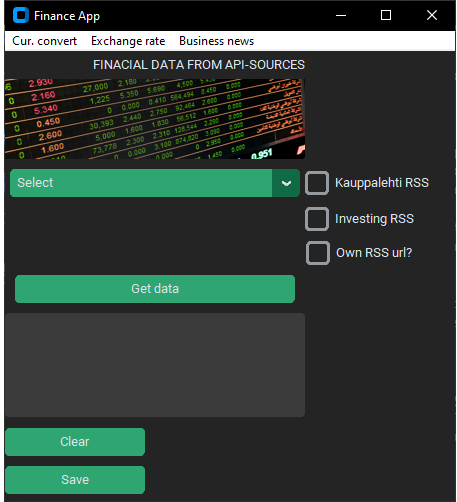
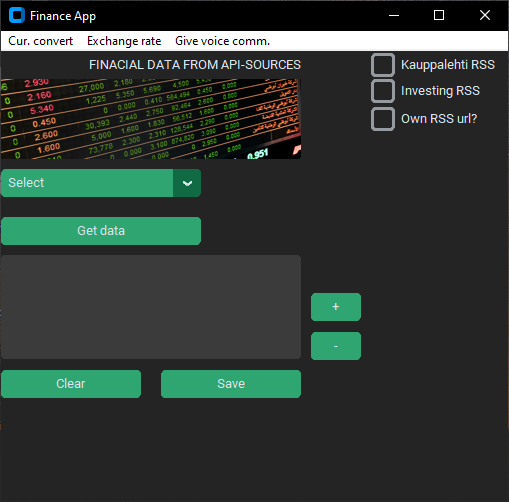
text zoom in / zoom out methods added

diff --git a/finance.py b/finance.py
@@ -17,6 +17,8 @@ from newsapi import NewsAPI
 from PIL import Image
 from databaseConnection import DatabaseConnection
 import speech_recognition as sr
+
+
 #Api-avain on talletettu env-muuttujaan, tässä haetaan sen sisältämä merkkijono
 apk=os.environ.get('apk')
 #Asettaa sovelluksen ulkoasutilan System määrittää ulkoasun saman kuin järjestelmän. dark on tumma teema
@@ -31,6 +33,7 @@ class App(ctk.CTk,tk.Menu):
 
     def __init__(self, *args, **kwargs):
         super().__init__(*args, **kwargs)
+        self.font = ctk.CTkFont(family="Times", size=14)
         self.words=['Crypto','Stocks','Precious metals']
         self.title("Finance App")
         self.menubar=tk.Menu(self)
@@ -64,39 +67,45 @@ class App(ctk.CTk,tk.Menu):
         
         #pudotusvalikko
         self.optMenu = ctk.CTkOptionMenu(self,
-                                        values=['Select',"Crypto","Stocks",'Commodities','Precious metals','Business news'],command=self.optionmenu_callback)
-        self.optMenu.grid(row=3, column=1,padx=5, pady=10,columnspan=1, sticky="ew")
+                                        values=['Select',"Crypto","Stocks",'Commodities','Precious metals','Business news'],command=self.optionmenu_callback,width=200)
+        self.optMenu.grid(row=3, column=1, pady=10,columnspan=1, sticky="w")
 
         self.codeEntry = ctk.CTkEntry(self,placeholder_text="crypto/stock code",textvariable=self.inputField,validate="focusout", validatecommand=self.showInput)
         self.earningsSV=ctk.StringVar()
         self.earnings=ctk.CTkCheckBox(self,text="Show earnings?", onvalue="on", offvalue="off", variable=self.earningsSV)
         self.newsAboutComp=ctk.CTkCheckBox(self,text="News?",command=lambda:self.news.companyNews(self.codeEntry.get(),self.textbox))
-        self.getBtn=ctk.CTkButton(self,text="Get data",command=self.selectMethods,width=5)
-        self.getBtn.grid(row=7,column=1,columnspan=3,sticky="ew",padx=10,pady=10)
-        self.textbox=ctk.CTkTextbox(self,width=200,corner_radius=5,height=105)
+        self.getBtn=ctk.CTkButton(self,text="Get data",command=self.selectMethods,width=200)
+        self.getBtn.grid(row=7,column=1,columnspan=3,sticky="w",pady=10)
+        self.textbox=ctk.CTkTextbox(self,width=200,corner_radius=5,height=105,font=self.font)
         self.textbox.grid(row=9,column=1,sticky="ew",columnspan=1)
         #lambdan avulla voidaan antaa metodille parametri, ilman lambdaa metodi jossa on () merkit
         #suoritetaan heti
         self.rssSV=ctk.StringVar()
         self.klUrl=ctk.StringVar(value="https://feeds.kauppalehti.fi/rss/main")
         self.klRss=ctk.CTkCheckBox(self,text="Kauppalehti RSS",command=lambda:self.selRssSource(self.klUrl.get()),onvalue="on",offvalue="off")
-        self.klRss.grid(row=3,column=7,columnspan=3)
+        self.klRss.grid(row=1,column=7,columnspan=3)
         self.clearBtn=ctk.CTkButton(self,text="Clear",command=self.clearTextBox)
         self.clearBtn.grid(row=10,column=1,pady=(10,10),sticky="w")
         self.saveBtn=ctk.CTkButton(self,text='Save',command=lambda:self.dbconn.DBsave(self.textbox.get('1.0',END)))
-        self.saveBtn.grid(row=11,column=1,sticky="w")
+        self.saveBtn.grid(row=10,column=1,sticky="e")
+
+        #zoomintext metodi saa parametrina fontin tyypin (self.font) ja fontin koon (self.font._size)
+        self.zoomIn=ctk.CTkButton(self,text="+",width=50,command=lambda:self.opt.zoomInText(self.font,self.font._size))
+        self.zoomIn.grid(row=9,column=2,padx=10)
+        self.zoomOut=ctk.CTkButton(self,text="-",width=50,command=lambda:self.opt.zoomOutText(self.font,self.font._size))
+        self.zoomOut.grid(row=9,column=2,sticky="s")
         ''''
         self.urlInput=ctk.CTkEntry(self)
         self.urlInput.grid(row=6,column=8,columnspan=3)
         '''
         self.invUrl=ctk.StringVar(value='https://fi.investing.com/rss/news_25.rss')
         self.invRss=ctk.CTkCheckBox(self,text="Investing RSS",command=lambda:self.selRssSource(self.invUrl.get()),variable=self.rssSV,onvalue="on",offvalue="off")
-        self.invRss.grid(row=5,column=7,columnspan=2)
+        self.invRss.grid(row=2,column=7,sticky="nw")
 
         self.wUrl=ctk.StringVar()
         self.writeUrl=ctk.CTkCheckBox(self,text="Own RSS url?",variable=self.wUrl,onvalue="on",offvalue="off",command=self.showInput)
         #pady(10,0) tarkoittaa, että ylös lisätään 10 pikseliä tyhjää tilaa ja alas 0 pikseliä
-        self.writeUrl.grid(row=6,column=6,columnspan=3,pady=(10,0))
+        self.writeUrl.grid(row=2,column=7,sticky="ew")
 
         self.valueCB=ctk.CTkCheckBox(self,text="Graphics",command=self.DrawGraphics)
     

diff --git a/options.py b/options.py
@@ -13,6 +13,7 @@ class Options(ctk.CTk):
         self.topWIn=ctk.CTkToplevel()
         self.textbox=ctk.CTkTextbox(self.topWIn)
         self.topWIn.geometry('250x250')
+        
     
         
 
@@ -55,6 +56,15 @@ class Options(ctk.CTk):
             self.textbox.insert("end",response.text)
         else:
              print("Error:", response.status_code, response.text)
+    
+    def zoomInText(self,fontParam,fsize):
+        fsize+=2
+        fontParam.configure(size=fsize)
+    
+    def zoomOutText(self,fontParam,fsize):
+        fsize-=2
+        fontParam.configure(size=fsize)
+       
     
    
     
